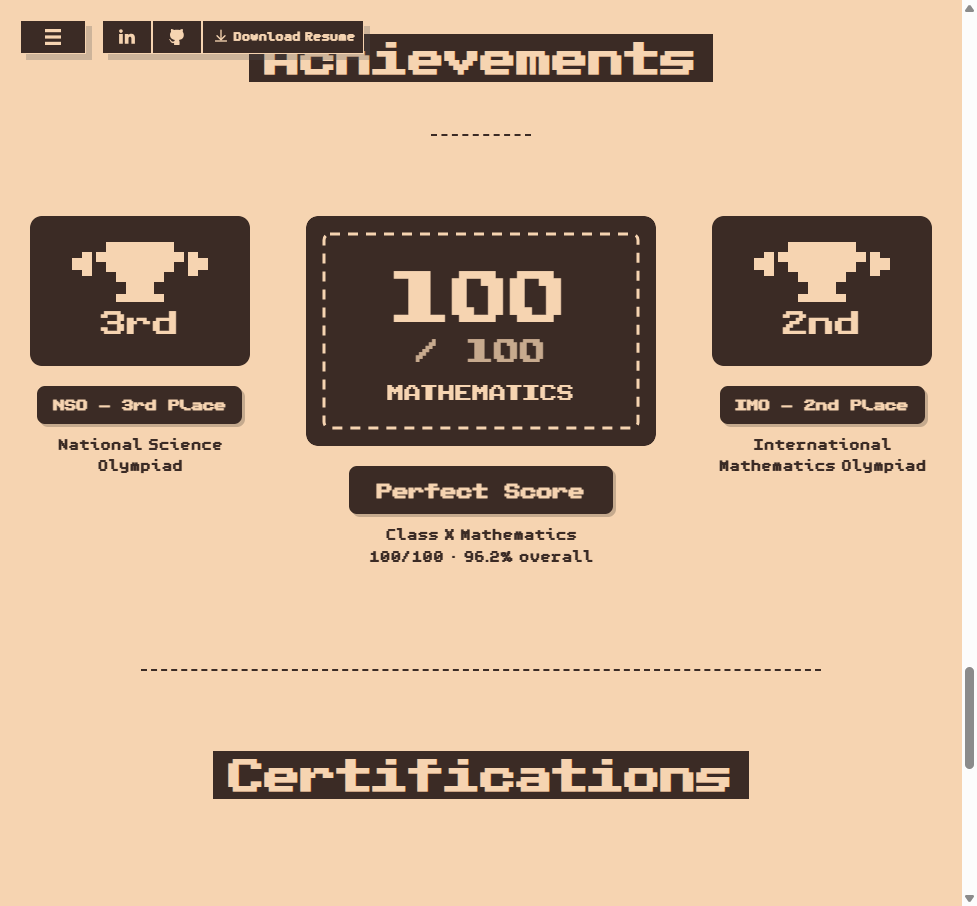
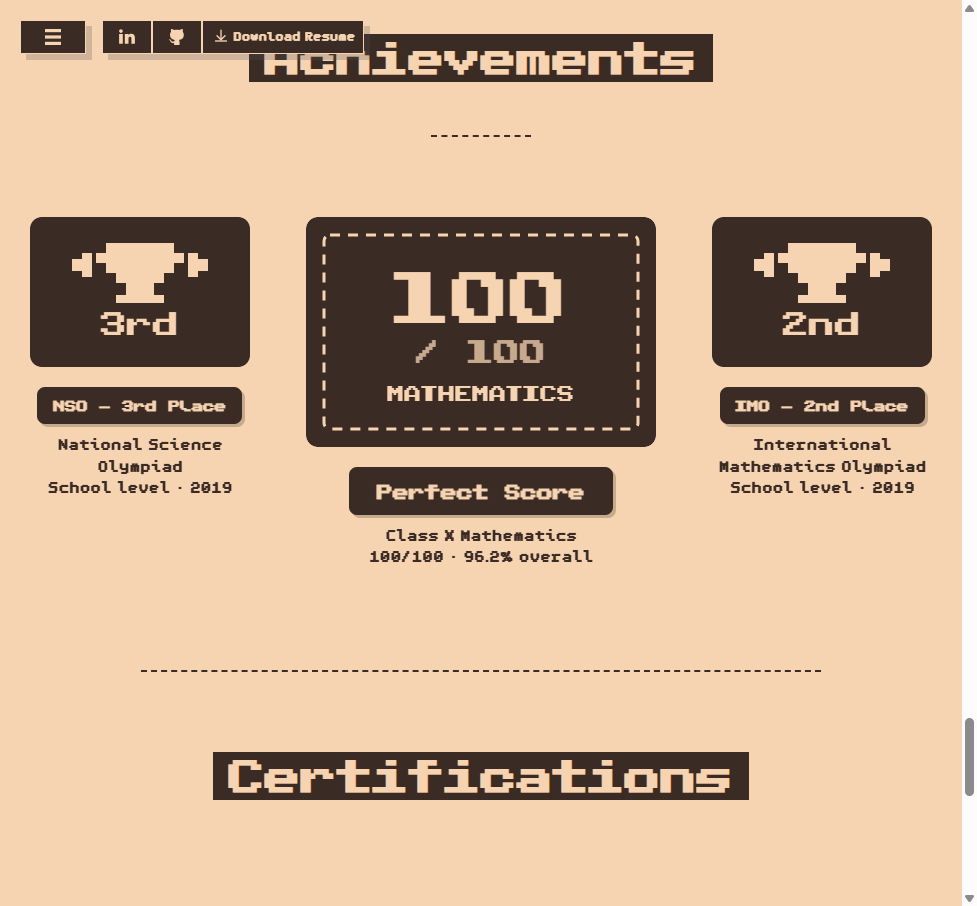
docs: update screenshots and the filesystem diagram

diff --git a/README.md b/README.md
@@ -27,8 +27,10 @@ render target which then goes through bloom, phosphor lag and scanline noise
 before landing on the screen mesh.
 
 The **page** below it is for people who just want to read. Scroll past the hero
-and the camera pulls back off the machine, handing over to a stack of project
-cards.
+and the camera pulls back off the machine, handing over to About, Experience,
+Projects, Skills, Achievements, Certifications and Contact — in that order,
+so the narrative runs from who I am, to where I have worked, to what I have
+built, to what I know.
 
 ![The machine](docs/screenshots/computer.jpg)
 
@@ -40,6 +42,10 @@ cards.
 
 ![Terminal](docs/screenshots/terminal.jpg)
 
+### Experience
+
+![Experience](docs/screenshots/experience.png)
+
 ### Project cards stack as you scroll
 
 Each card pins under the one before it, scaling down and dimming as it gets
@@ -49,7 +55,9 @@ covered, so the stack reads as depth rather than as flat sheets.
 
 ![Projects](docs/screenshots/projects.png)
 
-### Achievements and contact
+### Skills, achievements and contact
+
+![Skills](docs/screenshots/skills.png)
 
 ![Achievements](docs/screenshots/achievements.png)
 
@@ -119,6 +127,8 @@ flowchart TD
     ROOT --> DEV["dev"]
     HOME --> USER["user"]
     USER --> ABOUT["about/about.md"]
+    USER --> XP["experience/experience.md"]
+    USER --> SKILLS["skills/skills.md"]
     USER --> CONTACT["contact/contact.md"]
     USER --> TITLE["title/title.md"]
     USER --> PROJ["projects/"]
